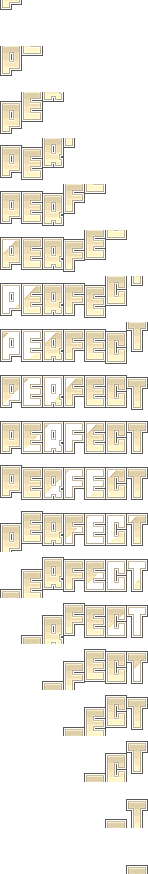
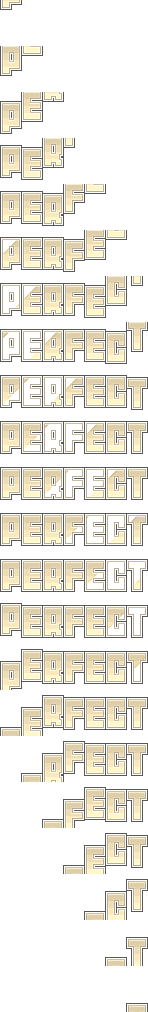
implements better minigame success label

diff --git a/src/stages/minigames/MinigameStage.js b/src/stages/minigames/MinigameStage.js
@@ -22,8 +22,8 @@ inherit(MinigameStage, Stage);
 MinigameStage.prototype.preload = function() {
   this.background = loader.loadAssetImage('minigames_background.png');
   this.successIcon = loader.loadAssetImage('tick.png');
+  this.labelPerfect = loader.loadAssetImage('perfect.png', 1, 22);
   this.failIcon = loader.loadAssetImage('cross.png');
-
   this.soundSuccess = loader.loadAssetAudio({src: 'sounds/outcomes/outcomes-success.mp3'});
   this.soundFailure = loader.loadAssetAudio({src: 'sounds/outcomes/outcomes-failure.mp3'});
 };
@@ -38,6 +38,7 @@ MinigameStage.prototype.prestart = function(payload) {
   this.closeTime = 0;
   this.closeCallback = null;
   this.hintProgress = 0;
+  this.labelFrame = 0;
 };
 
 MinigameStage.prototype.stop = function() {
@@ -74,12 +75,14 @@ MinigameStage.prototype.close = function(success) {
       this.succeededOnce = true;
     }
     this.paused = true;
-    this.closeTime = this.time + 700;
+    this.pauseTime = this.time;
+    this.closeTime = this.time + 1000;
     this.closeCallback = () => this.prestart(this.payload);
   } else {
     // No training mode, so close minigame
     this.paused = true;
-    this.closeTime = this.time + 700;
+    this.pauseTime = this.time;
+    this.closeTime = this.time + 1000;
     this.closeCallback = null;
     this.hint = gameStage.gameState.hintSystem.getHint();
   }
@@ -159,7 +162,15 @@ MinigameStage.prototype.renderOnTop = function(ctx, timer) {
   if (this.paused) {
     if (this.success) {
       // Checkmark
-      drawImageToScreen(ctx, this.successIcon, this.w / 2, this.h / 2, 0, 1, 1, 0.5, 0.5);
+      
+      if (this.time - this.pauseTime >= (Math.floor((this.closeTime - this.pauseTime) / this.labelPerfect.frameCount) * (this.labelFrame + 1)) ) {
+        // console.log(this.closeTime - this.time);
+        this.labelFrame++;
+      }
+
+      if (this.labelFrame < this.labelPerfect.frameCount)
+        drawFrame(ctx, this.labelPerfect, this.labelFrame, this.w / 2, this.h / 2, 0, 1, 1, 0.5, 0.5, 1)
+
     } else {
       // Nope
       drawImageToScreen(ctx, this.failIcon, this.w / 2, this.h / 2, 0, 1, 1, 0.5, 0.5);
